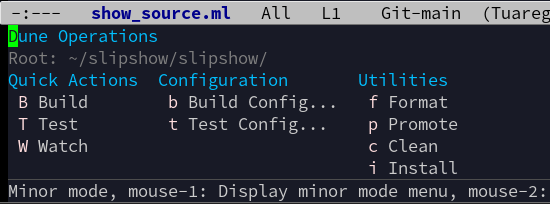
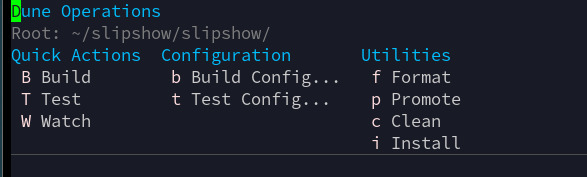
v9.0

Changed region(s): [[0.0, 0.0, 1.0, 1.0]]

diff --git a/README.md b/README.md
@@ -17,3 +17,5 @@ written by an AI, without human review.
 
 If you find it useful, you are welcome to use it, even if you are not 100% an
 AI.
+
+![](build_panel.png)
